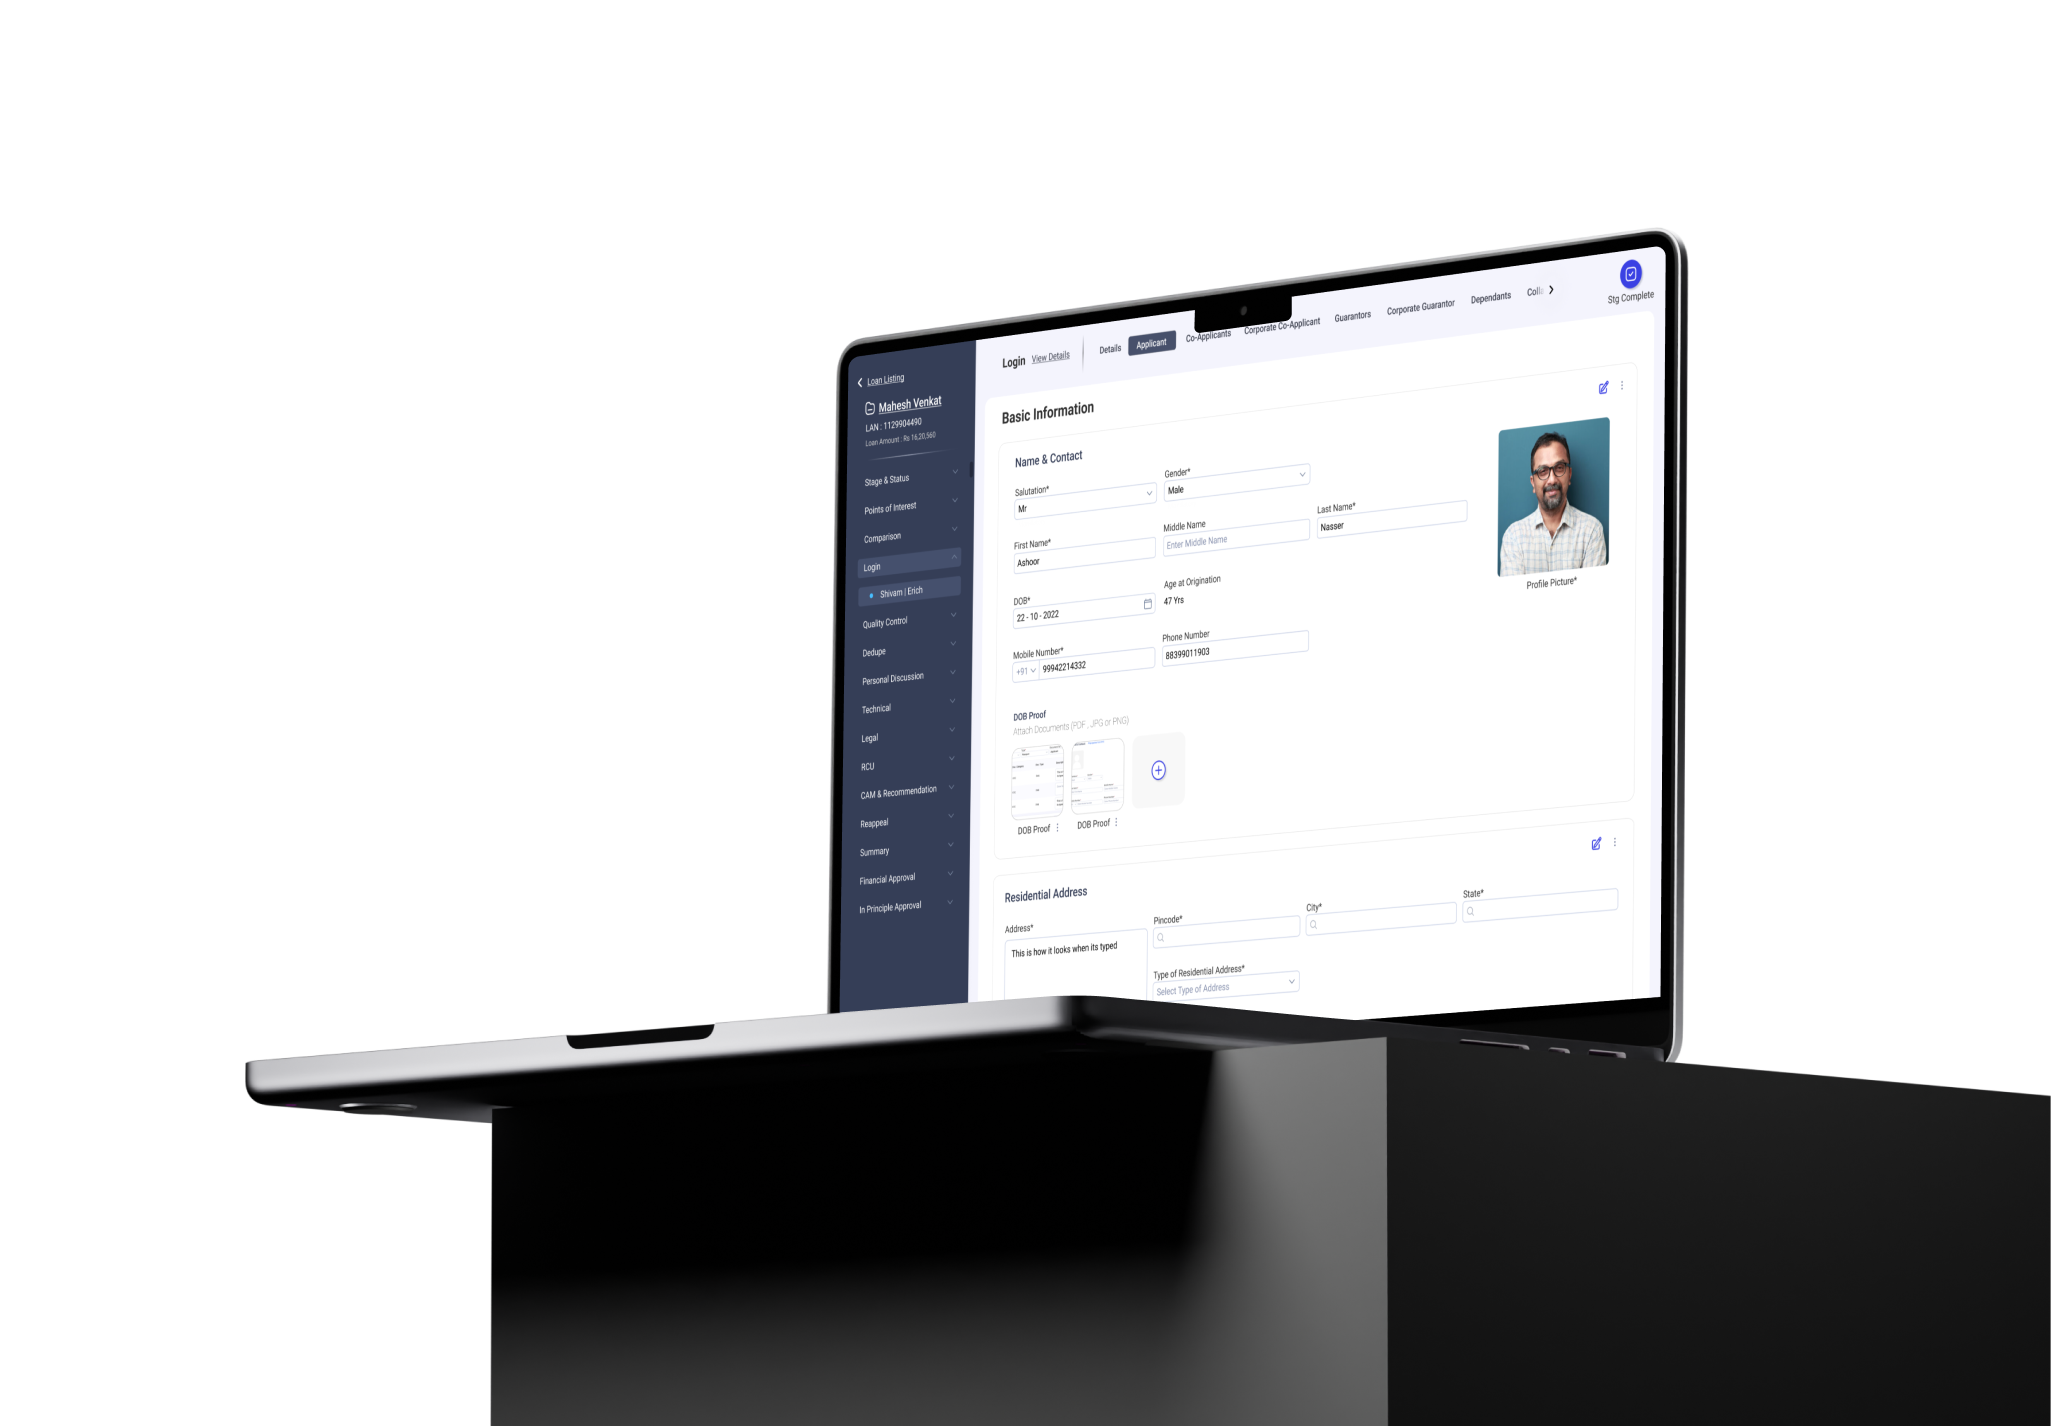
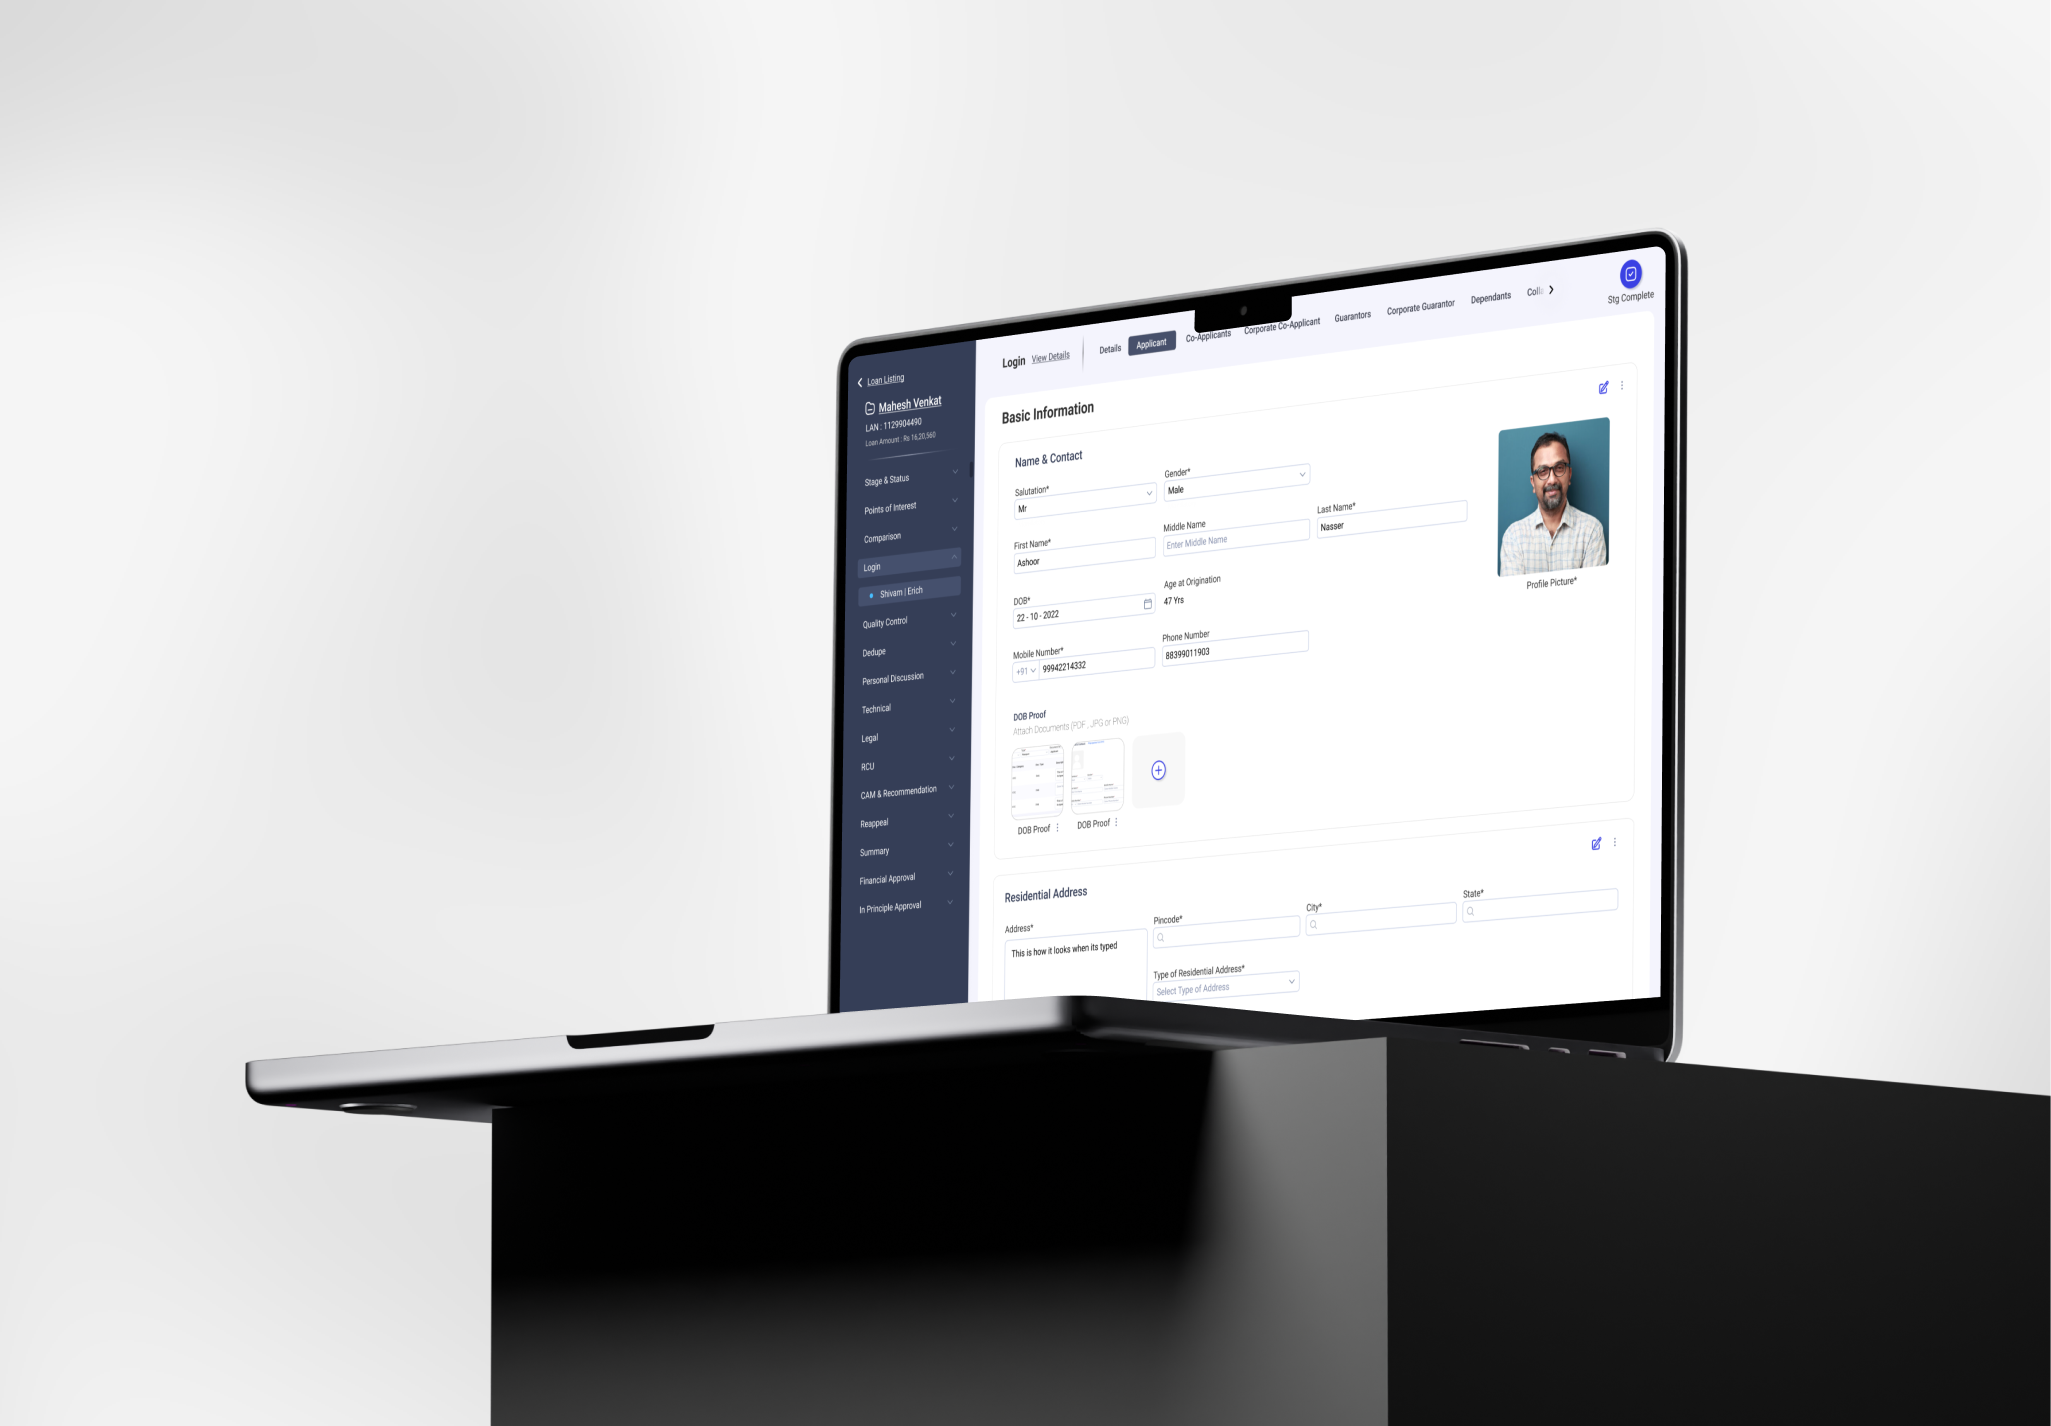
Sahayya: use a static hero image, remove shader stage
Replaces the shader canvas/gradient hero with the uploaded static hero
composition (laptop over a soft grey gradient) as a standard framed
hero image, and drops the now-unused .sa-hero* scaffold.

Claude-Session: https://claude.ai/code/session_016mGArwkk2tk7sdjNBRDyw8

diff --git a/assets/css/styles.css b/assets/css/styles.css
@@ -1297,37 +1297,6 @@ body.about .home-layout { padding-top: 47px; padding-bottom: 48px; }
   width: 100%;
 }
 
-/* ---- Hero stage: grey "Moving gradient" behind the laptop ---------- */
-.sa .sa-hero {
-  position: relative;
-  display: flex;
-  align-items: center;
-  justify-content: center;
-  aspect-ratio: 1053 / 711;
-  margin: 8px 0 40px;
-  border: 1px solid var(--grey-300);
-  border-radius: 11px;
-  overflow: hidden;
-  /* static fallback / placeholder until the animated shader is wired in */
-  background: linear-gradient(120deg, var(--grey-300) 0%, var(--grey-100) 50%, var(--grey-200) 100%);
-}
-.sa .sa-hero__canvas {
-  position: absolute;
-  inset: 0;
-  width: 100%;
-  height: 100%;
-  display: block;
-}
-.sa .sa-hero__device {
-  position: relative;
-  z-index: 1;
-  width: 42%;
-  max-width: 460px;
-  height: auto;
-  display: block;
-  filter: drop-shadow(0 24px 48px rgba(0, 0, 0, .18));
-}
-
 /* ---- Image + text split (The customer, Solution 02 blocks) --------- */
 .sa .sa-split {
   display: flex;
@@ -1407,6 +1376,5 @@ body.about .home-layout { padding-top: 47px; padding-bottom: 48px; }
   .sa .sa-lessons { grid-template-columns: 1fr; gap: 32px; }
 }
 @media (max-width: 640px) {
-  .sa .sa-hero__device { width: 70%; }
   .sa .sa-note__num, .sa .sa-lesson__num { font-size: 46px; }
 }

diff --git a/sahayya.html b/sahayya.html
@@ -85,13 +85,9 @@
         <h1 class="hero__title">How did I reduce loan processing time from 10 days to 4?</h1>
         <p class="hero__subtitle">Designing an end-to-end loan origination system for India&rsquo;s self-employed borrowers.</p>
 
-        <!-- Hero stage: grey "Moving gradient" shader sits behind the laptop.
-             The grey gradient below is the static fallback / placeholder; the
-             animated shader canvas drops into .sa-hero__canvas later. -->
-        <div class="sa-hero" role="img" aria-label="Sahayya loan-origination app shown on a laptop, over a soft grey gradient">
-          <canvas class="sa-hero__canvas" aria-hidden="true"></canvas>
-          <img class="sa-hero__device" src="assets/img/sahayya/hero-laptop.png" alt="" onerror="this.style.display='none'" />
-        </div>
+        <figure class="asset-slot hero__image" data-caption="Sahayya loan-origination app — the applicant stage">
+          <img src="assets/img/sahayya/hero-laptop.png" alt="The Sahayya loan-origination app shown on a laptop, over a soft grey gradient" />
+        </figure>
 
         <dl class="meta">
           <div class="meta__col">
